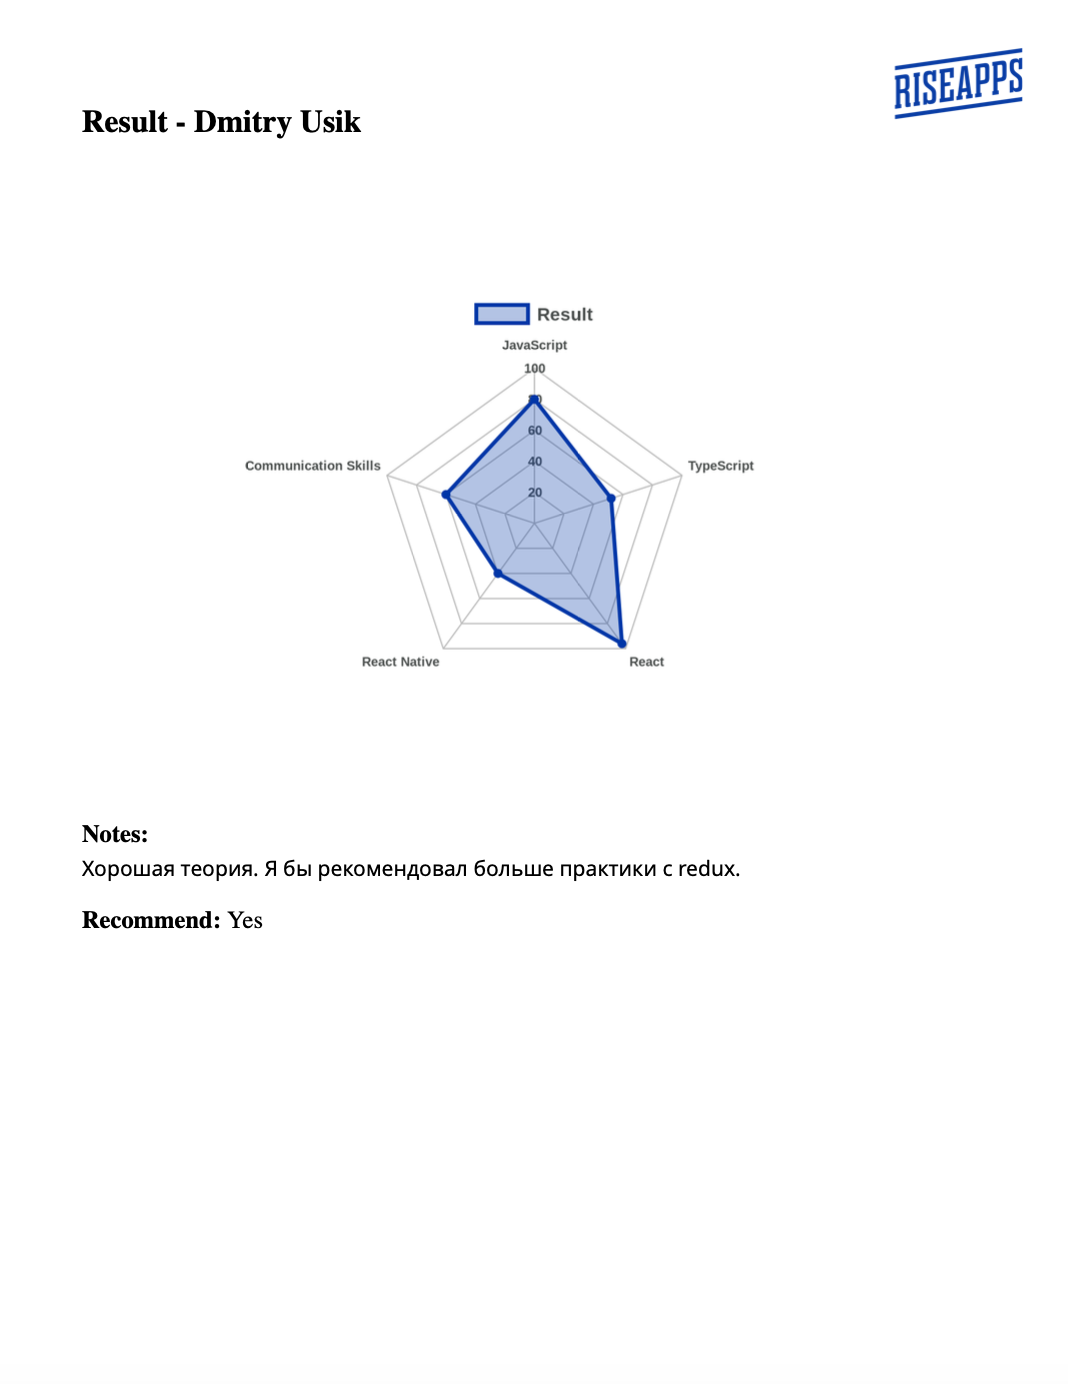
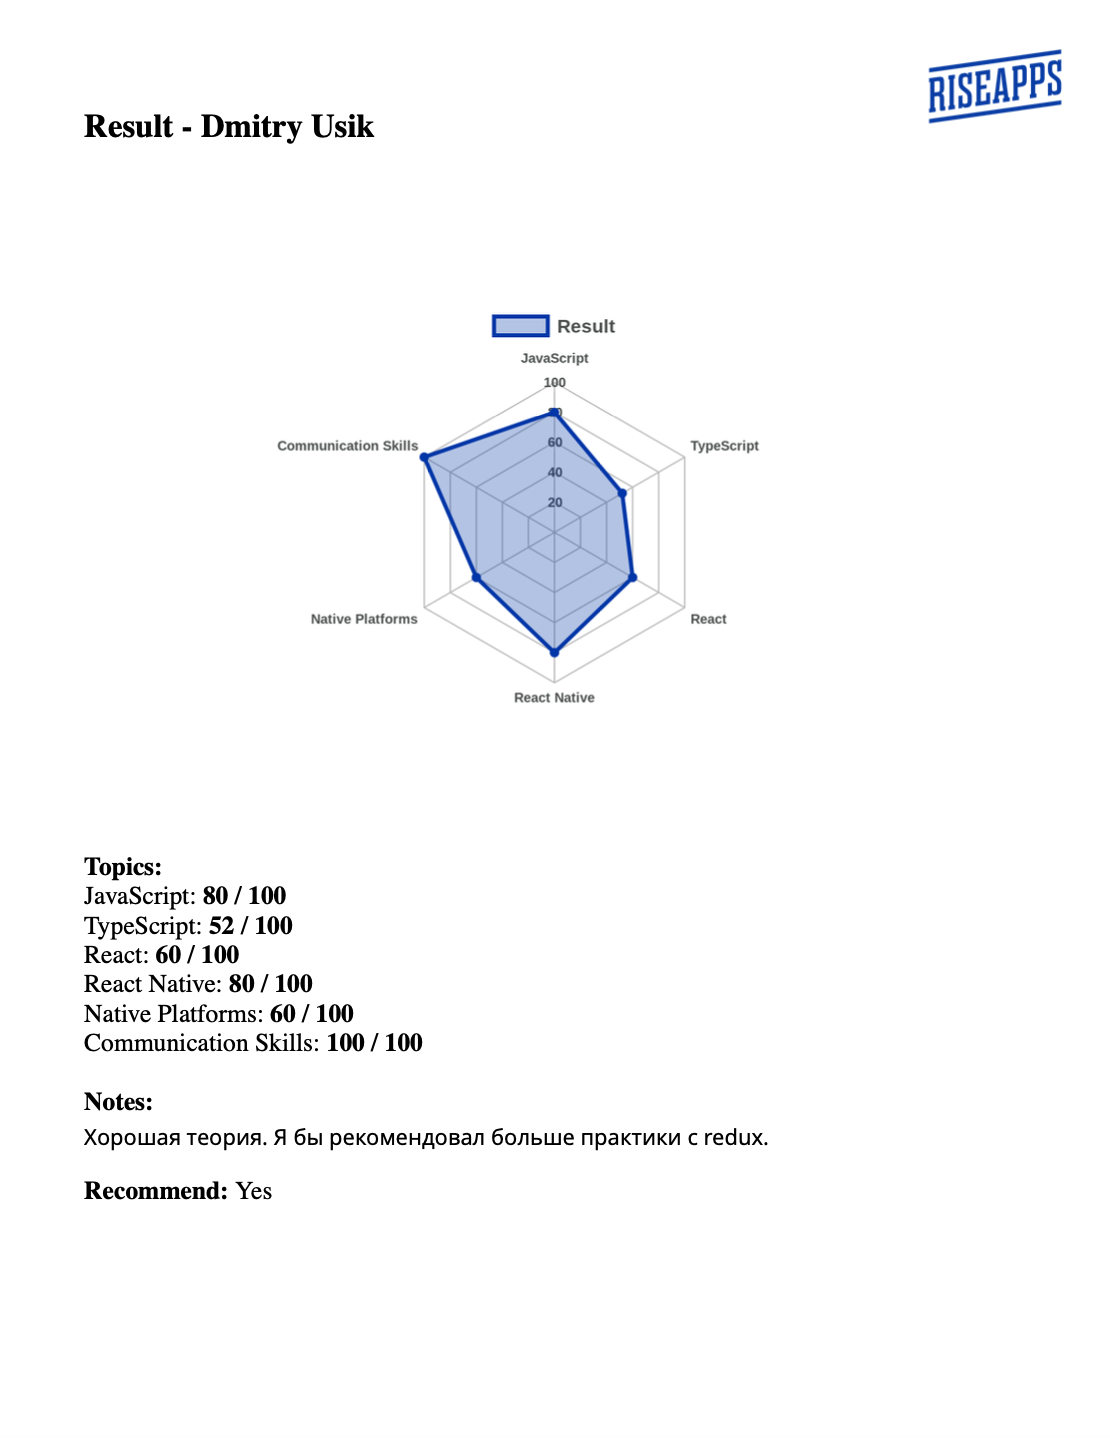
- fixed questions.txt order; - added topic marks to result.pdf;

diff --git a/src/buildRadarChart.ts b/src/buildRadarChart.ts
@@ -3,15 +3,7 @@ import fetch, { Response } from 'node-fetch'
 import fs from 'fs'
 import config from './config'
 import { wrapToOutputsDirectory } from './createOutputsDirectory'
-
-const marksToRadarChartValues = (marks: number[][]): number[] =>
-    marks.reduce((prev, curr) => {
-        const maxTopicMark: number = curr.length * config.maxMark
-        const candidateTopicMark: number = curr.reduce((prev, curr) => prev + curr, 0)
-        const topicMarkPercent: number = Math.round((100 * candidateTopicMark) / maxTopicMark)
-
-        return [...prev, topicMarkPercent]
-    }, [])
+import { marksToPercentageValues } from './marksToPercentageValues'
 
 const buildRadarChart = async (resultDraft: Map<string, number[]>): Promise<void> => {
     console.log(`buildRadarChart(${[...resultDraft.keys()]})`)
@@ -25,7 +17,7 @@ const buildRadarChart = async (resultDraft: Map<string, number[]>): Promise<void
             datasets: [
                 {
                     label: 'Result',
-                    data: marksToRadarChartValues([...resultDraft.values()]),
+                    data: marksToPercentageValues([...resultDraft.values()]),
                     backgroundColor: config.radarChart.datasetBackgroundColor,
                     pointBorderColor: config.radarChart.datasetColor,
                     pointBackgroundColor: config.radarChart.datasetColor,

diff --git a/src/generateResultPDF.ts b/src/generateResultPDF.ts
@@ -3,12 +3,15 @@ import input from './input'
 import fs from 'fs'
 import { drawRiseappsLogo, getPdfDocument } from './pdfUtils'
 import { wrapToOutputsDirectory } from './createOutputsDirectory'
+import { marksToPercentageValues } from './marksToPercentageValues'
 
 const _generateResultPDF = (
     resultDraft: Map<string, number[]>,
     resultNotesDraft: string[],
 ): void => {
     console.log(`_generateResultPDF(${[...resultDraft.keys()]})`)
+
+    const percentageValues = marksToPercentageValues([...resultDraft.values()])
 
     const pdfDocument = getPdfDocument()
 
@@ -29,6 +32,21 @@ const _generateResultPDF = (
             valign: 'center',
         })
         .moveDown(4)
+
+    pdfDocument.fontSize(14).font('Times-Bold').text('Topics:')
+    Array.of(...resultDraft.keys()).reduce(
+        (prev, curr, index) =>
+            pdfDocument
+                .fontSize(14)
+                .font('Times-Roman')
+                .text(`${curr}: `, { continued: true })
+                .fontSize(14)
+                .font('Times-Bold')
+                .text(`${percentageValues[index]} / 100`),
+        pdfDocument,
+    )
+
+    pdfDocument.moveDown(1)
 
     pdfDocument
         .fontSize(14)

diff --git a/src/findSuitableQuestions.ts b/src/findSuitableQuestions.ts
@@ -77,8 +77,10 @@ const formatQuestions = (questionsMap: Map<string, QuestionData[]>): string => {
     const topics: string[] = []
     questionsMap.forEach((value, key) => {
         const questions: string[] = value.map(
-            (question) =>
-                `${question.order}. ${question.question} (timeForAnswer: ${question.estimatedTimeMin} min) (requiredFor: ${question.requiredFor}) (key: @${question.key}@)`,
+            (question, index) =>
+                `${index + 1}. ${question.question} (timeForAnswer: ${
+                    question.estimatedTimeMin
+                } min) (requiredFor: ${question.requiredFor}) (key: @${question.key}@)`,
         )
         topics.push(`${key} ${config.topicKey}\n${questions.join('\n')}`)
     })

diff --git a/src/marksToPercentageValues.ts b/src/marksToPercentageValues.ts
@@ -1,0 +1,12 @@
+import config from './config'
+
+const marksToPercentageValues = (marks: number[][]): number[] =>
+    marks.reduce((prev, curr) => {
+        const maxTopicMark: number = curr.length * config.maxMark
+        const candidateTopicMark: number = curr.reduce((prev, curr) => prev + curr, 0)
+        const topicMarkPercent: number = Math.round((100 * candidateTopicMark) / maxTopicMark)
+
+        return [...prev, topicMarkPercent]
+    }, [])
+
+export { marksToPercentageValues }
